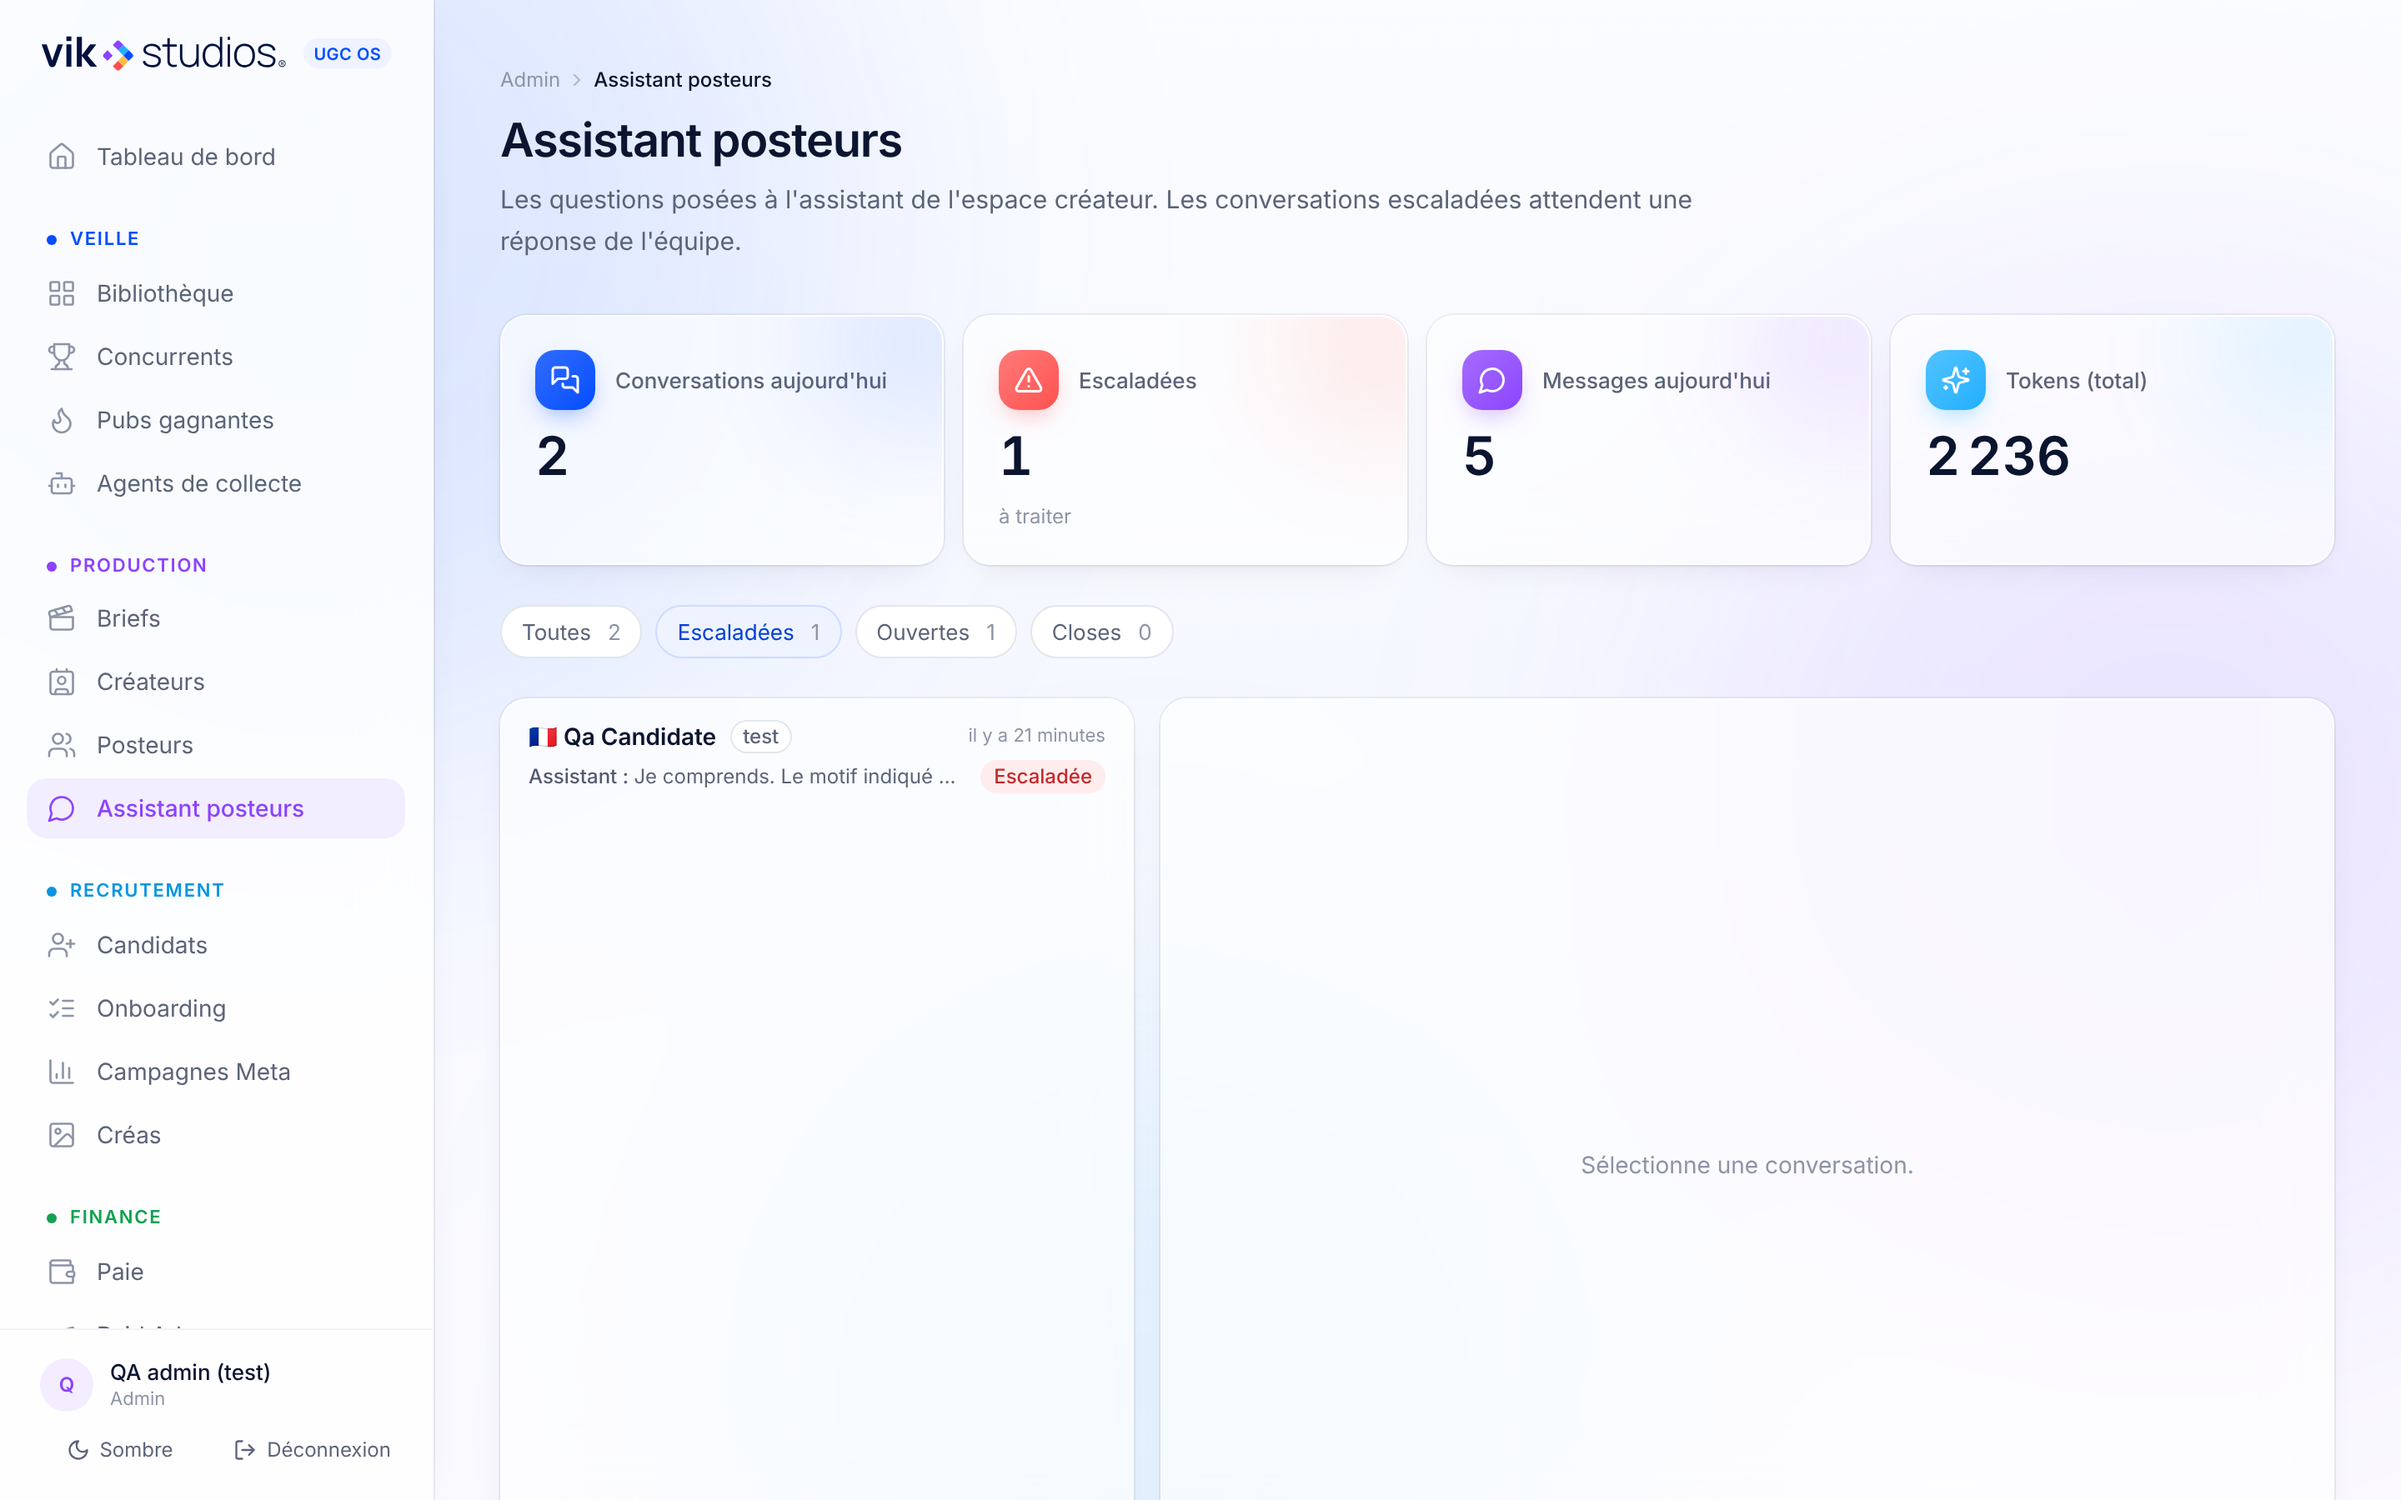
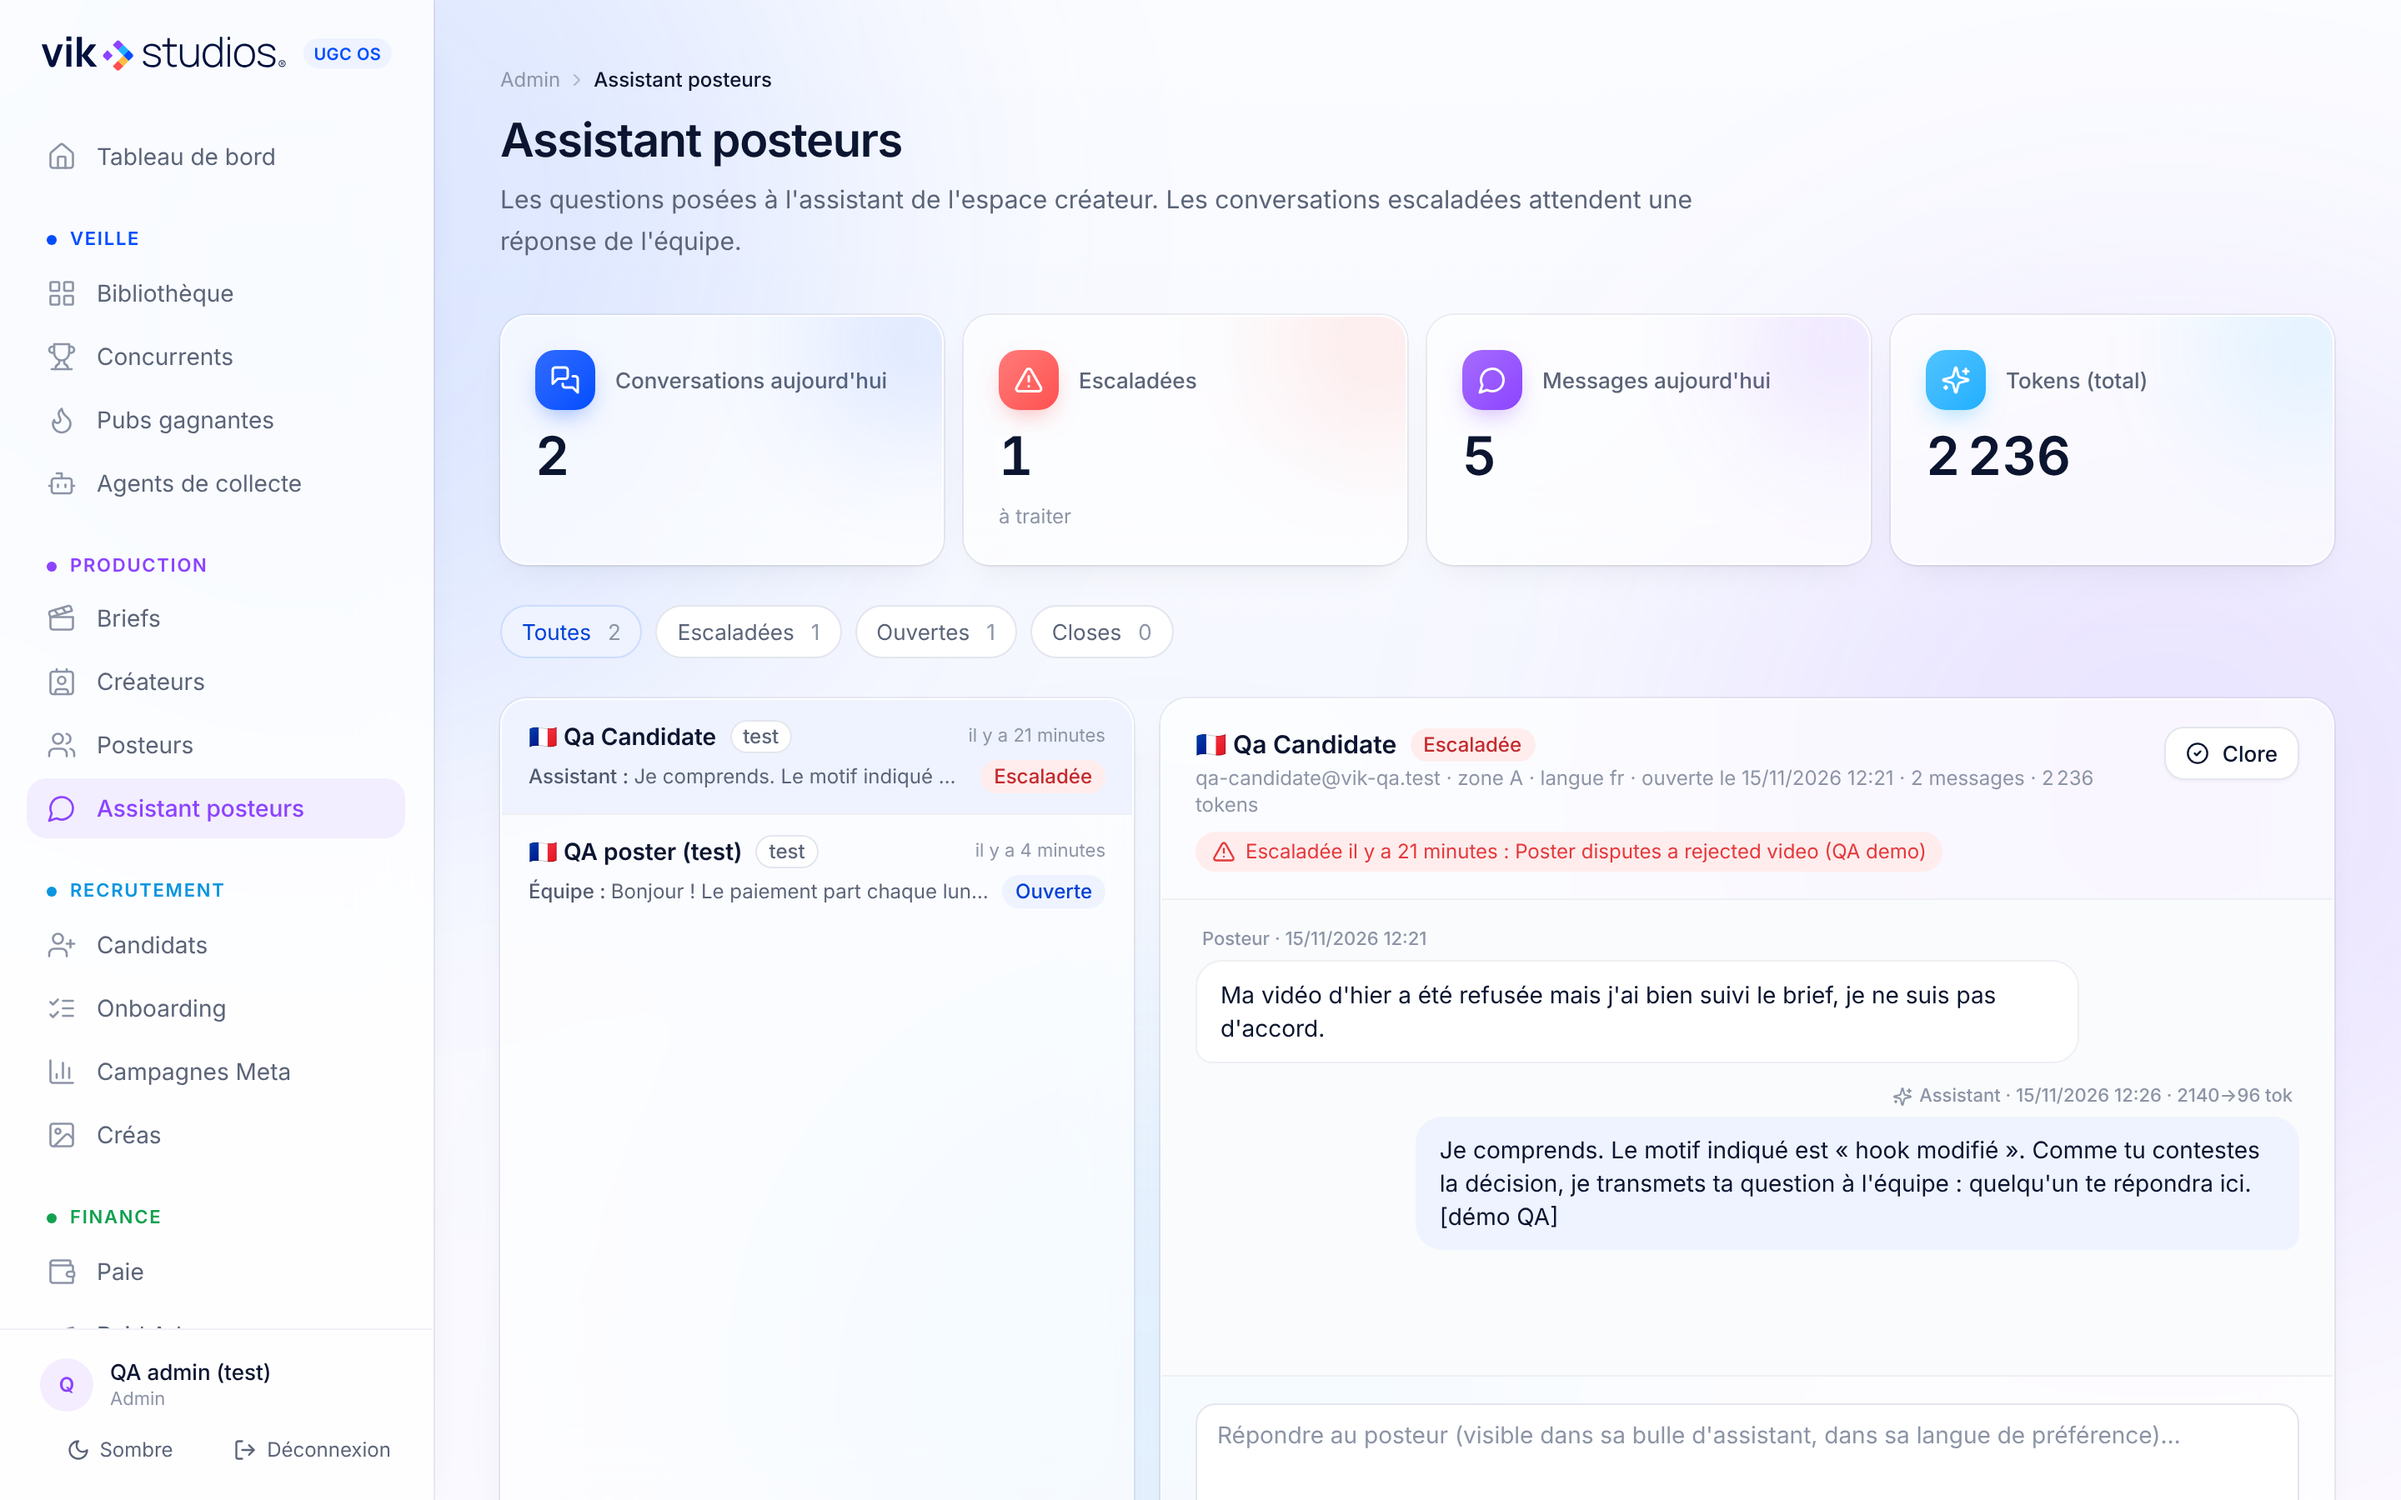
V3 : assistant posteur (bulle, journal admin, escalade) + traductions en cours
Claude-Session: https://claude.ai/code/session_01DswBbnGQDRcu3eDzuLy6MA

diff --git a/src/pages/admin/WinningAds.tsx b/src/pages/admin/WinningAds.tsx
@@ -204,8 +204,8 @@ const PLATFORM_SHORT: Record<string, string> = { facebook: "FB", instagram: "IG"
 function Platforms({ list, short }: { list: string[] | null | undefined; short?: boolean }) {
   if (!list?.length) return <span className="text-xs text-subtle-foreground">—</span>;
   if (short) return (
-    <span className="flex flex-wrap gap-1" title={list.map((p) => PLATFORM_NAME[p] ?? p).join(", ")}>
-      {list.map((p) => <span key={p} className="rounded-md bg-[#f1f3f7] px-1.5 py-0.5 text-[10px] font-semibold text-muted-foreground">{PLATFORM_SHORT[p] ?? p.slice(0, 2).toUpperCase()}</span>)}
+    <span className="flex gap-1" title={list.map((p) => PLATFORM_NAME[p] ?? p).join(", ")}>
+      {list.map((p) => <span key={p} className="rounded-md bg-muted px-1.5 py-0.5 text-[10px] font-semibold text-muted-foreground">{PLATFORM_SHORT[p] ?? p.slice(0, 2).toUpperCase()}</span>)}
     </span>
   );
   return <span className="text-xs text-subtle-foreground">{list.map((p) => PLATFORM_NAME[p] ?? p).join(" · ")}</span>;
@@ -245,7 +245,7 @@ function AdCard({ v, competitor, onOpen, onRecycle }: { v: Video; competitor?: s
         </span>
         <div className="absolute inset-x-0 bottom-0 flex flex-wrap gap-1 bg-gradient-to-t from-black/65 via-black/25 to-transparent p-2.5 pt-12">
           {variants > 1 && <MetricPill tone="dark" icon={<Layers />}>{variants} variantes</MetricPill>}
-          <MetricPill tone="dark" icon={<CalendarDays />}>{dateFr(v.ad_started_at, { day: "numeric", month: "short" })}</MetricPill>
+          <MetricPill tone="dark" icon={<CalendarDays />}>{dateFr(v.ad_started_at, { day: "numeric", month: "short", year: "2-digit" })}</MetricPill>
         </div>
       </button>
       <div className="mt-2.5 px-0.5">
@@ -277,13 +277,13 @@ function AdsTable({ rows, compName, onOpen, onRecycle, hideCompetitor }: { rows:
           return (
             <tr key={v.id} className="cursor-pointer" onClick={() => onOpen(v)}>
               <Td>
-                <div className="flex min-w-[220px] items-center gap-3">
+                <div className="flex min-w-[200px] items-center gap-3">
                   <div className="relative h-14 w-10 shrink-0 overflow-hidden rounded-md bg-muted ring-1 ring-border">
                     {thumb ? <img src={thumb} alt="" loading="lazy" className="h-full w-full object-cover" onError={(e) => ((e.target as HTMLImageElement).style.display = "none")} /> : <ThumbPlaceholder v={v} size="sm" />}
                   </div>
                   <div className="min-w-0">
                     <p className="truncate text-[13px] font-medium text-foreground">{displayName(v)}</p>
-                    <p className="max-w-[240px] truncate text-xs text-subtle-foreground">{v.caption || "—"}</p>
+                    <p className="max-w-[200px] truncate text-xs text-subtle-foreground">{v.caption || "—"}</p>
                   </div>
                 </div>
               </Td>
@@ -293,9 +293,9 @@ function AdsTable({ rows, compName, onOpen, onRecycle, hideCompetitor }: { rows:
               <Td num>{variantsOf(v)}</Td>
               <Td className="whitespace-nowrap text-[13px]">{dateFr(v.ad_started_at, { day: "numeric", month: "short", year: "2-digit" })}</Td>
               <Td><Flags list={v.ad_countries} /></Td>
-              <Td><Platforms list={v.ad_platforms} short /></Td>
+              <Td className="whitespace-nowrap"><Platforms list={v.ad_platforms} short /></Td>
               <Td>
-                <Button size="sm" variant="secondary" title="Recycler en brief organique" onClick={(e) => { e.stopPropagation(); onRecycle(v); }}><Recycle className="h-3.5 w-3.5" /> Recycler</Button>
+                <Button size="sm" variant="secondary" title="Recycler en brief organique" aria-label="Recycler en brief organique" onClick={(e) => { e.stopPropagation(); onRecycle(v); }}><Recycle className="h-3.5 w-3.5" /></Button>
               </Td>
             </tr>
           );

diff --git a/src/i18n/index.ts b/src/i18n/index.ts
@@ -1,4 +1,4 @@
-import i18n from "i18next";
+import i18n, { type Resource } from "i18next";
 import { initReactI18next } from "react-i18next";
 import LanguageDetector from "i18next-browser-languagedetector";
 import en from "./en";
@@ -18,7 +18,7 @@ export const LANGS: { code: string; label: string }[] = [
 
 export const SUPPORTED_LANGS: string[] = LANGS.map((l) => l.code);
 
-const resources: Record<string, { translation: unknown }> = {
+const resources: Resource = {
   en: { translation: en },
   es: { translation: es },
   fr: { translation: fr },
